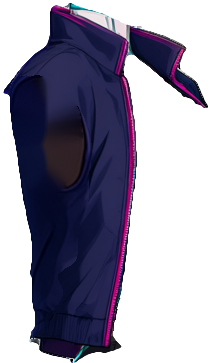
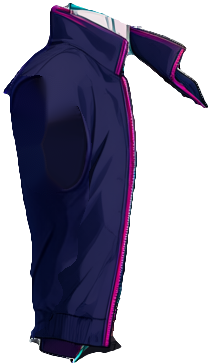
feat: show the in-game protagonist in the bag with idle gestures

Changed region(s): [[0.2, 0.3636, 0.4, 0.5152]]

diff --git a/pm/Nest-Egg/[NE-393]讓背包立繪和遊戲內的凜一致並會動.md b/pm/Nest-Egg/[NE-393]讓背包立繪和遊戲內的凜一致並會動.md
@@ -1,6 +1,6 @@
 # [NE-393] 讓背包立繪和遊戲內的凜一致並會動
 
-> 狀態：待辦
+> 狀態：完成
 
 ## 內文
 
@@ -11,14 +11,14 @@
 2026-11-27，使用者貼出背包畫面右側的凜立繪，指出她和遊戲裡的主角長得不太一樣，要求修正，並讓她會動：呼吸，或時不時做一些動作（撥頭髮、思考等等）。設計見[畫面活化與融入](../../design/22-living-scenes/DESIGN.md)的「背包立繪」。
 
 ### 驗收條件
-- [ ] 背包右側的凜和遊戲內的主角是同一個外觀：髮型、外套、義肢、鞋與配色一致，附背包畫面與遊戲內近拍的並排截圖
-- [ ] 她會呼吸、眨眼、偶爾換重心；每隔一段時間做一個小動作，至少包含撥頭髮與思考兩種，同一個動作不連續出現
-- [ ] 小動作的起手、停留與收回自然，手不穿過頭與身體，動作結束後回到原本的站姿；附兩種動作各自的連續畫面
-- [ ] 主角在遊戲裡換了外觀或受損狀態時，背包裡看到的跟著一致，不需要另外維護一張圖
-- [ ] 「減少動態」開啟時維持靜止站姿
-- [ ] 立繪不擋文字、焦點與按鈕；720p、1080p 與文字放大都通過既有版面檢查
-- [ ] 背包關閉時不更新也不佔用額外的畫面資源；反覆開關不累積節點
-- [ ] 受影響範圍的測試全過
+- [x] 背包右側的凜和遊戲內的主角是同一個外觀：髮型、外套、義肢、鞋與配色一致，附背包畫面與遊戲內近拍的並排截圖
+- [x] 她會呼吸、眨眼、偶爾換重心；每隔一段時間做一個小動作，至少包含撥頭髮與思考兩種，同一個動作不連續出現
+- [x] 小動作的起手、停留與收回自然，手不穿過頭與身體，動作結束後回到原本的站姿；附兩種動作各自的連續畫面
+- [x] 主角在遊戲裡換了外觀或受損狀態時，背包裡看到的跟著一致，不需要另外維護一張圖
+- [x] 「減少動態」開啟時維持靜止站姿
+- [x] 立繪不擋文字、焦點與按鈕；720p、1080p 與文字放大都通過既有版面檢查
+- [x] 背包關閉時不更新也不佔用額外的畫面資源；反覆開關不累積節點
+- [x] 受影響範圍的測試全過
 
 ### 測試流程
 1. 進關卡後開背包，看右側的凜
@@ -36,3 +36,26 @@
 - Related：NE-215、NE-244、NE-250
 
 ---
+
+# Commit-1
+
+## 內文
+
+背包右側的凜是一張另外畫的正面靜態立繪：頭髮放下、外套敞開、手插腰，和遊戲裡綁馬尾、側身持槍的主角不是同一個樣子，而且完全不會動。
+現在背包裡看到的就是遊戲內的那個凜：用同一個角色骨架與同一份貼圖以高倍率畫出來，髮型、外套、義肢、鞋與配色不可能再不一致；她受傷後衣物脫落的樣子也跟著主角目前的生命比例。她會呼吸、眨眼、換重心，每隔 6 到 11 秒做一個小動作：新增了「撥頭髮」（手抬到額側往後順過馬尾）與「思考」（手托下巴、低頭停留兩三秒），加上整理領口與伸展，同一個動作不連續出現，做完回到站姿。「減少動態」開啟時是靜止站姿。原本那張靜態立繪已經沒有地方使用，從專案移除。
+放大檢查時發現手臂抬高會露出肩膀下方一塊棕色色塊（外套袖孔的底色），已把那一塊改成外套內側的深色，袖孔以外的像素完全沒有變；修正同時存成角色建置流程的覆蓋圖，之後重建角色不會被蓋掉。這個修正在關卡裡往上瞄準、揮擊時同樣有效。
+背包關閉後角色與它的畫面資源都會釋放，反覆開關只有一份。
+
+### 測試結果
+
+| 項目 | 結果 |
+|---|---|
+| 受影響範圍的測試（55 個套件） | 70502 項檢查，1 項失敗一次：BG-64 擺設受力方向的檢查用了固定影格數等待，負載高時彈簧還沒開始動（與本票無關）。已把那項檢查改成等到真的開始移動，重跑環境與介面兩個套件 8399 / 8399 通過 |
+| 腳本錯誤 | 0 |
+| 原生情境（開背包、撥頭髮、思考、關背包） | 兩個手勢都播出，關閉後資源已釋放 |
+
+### 截圖
+
+由左到右：修前的靜態立繪、修後的背包立繪、關卡裡的主角（放大）、撥頭髮兩格、思考一格。
+
+![背包立繪與遊戲內主角](images/NE-393-inventory-portrait.png)
